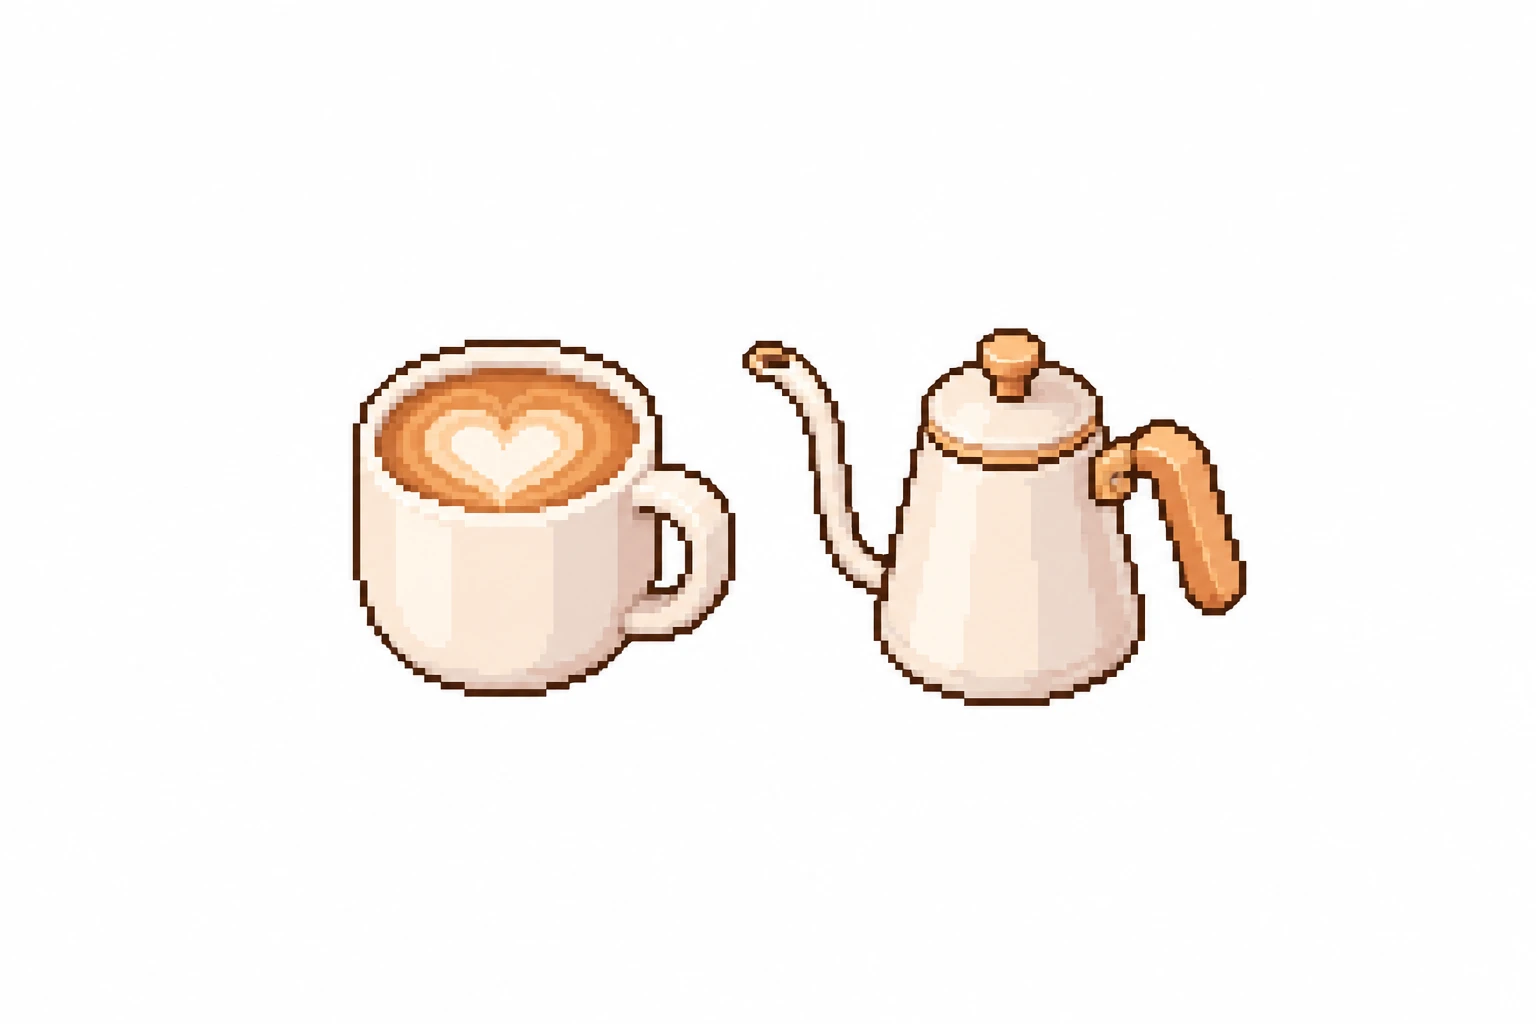
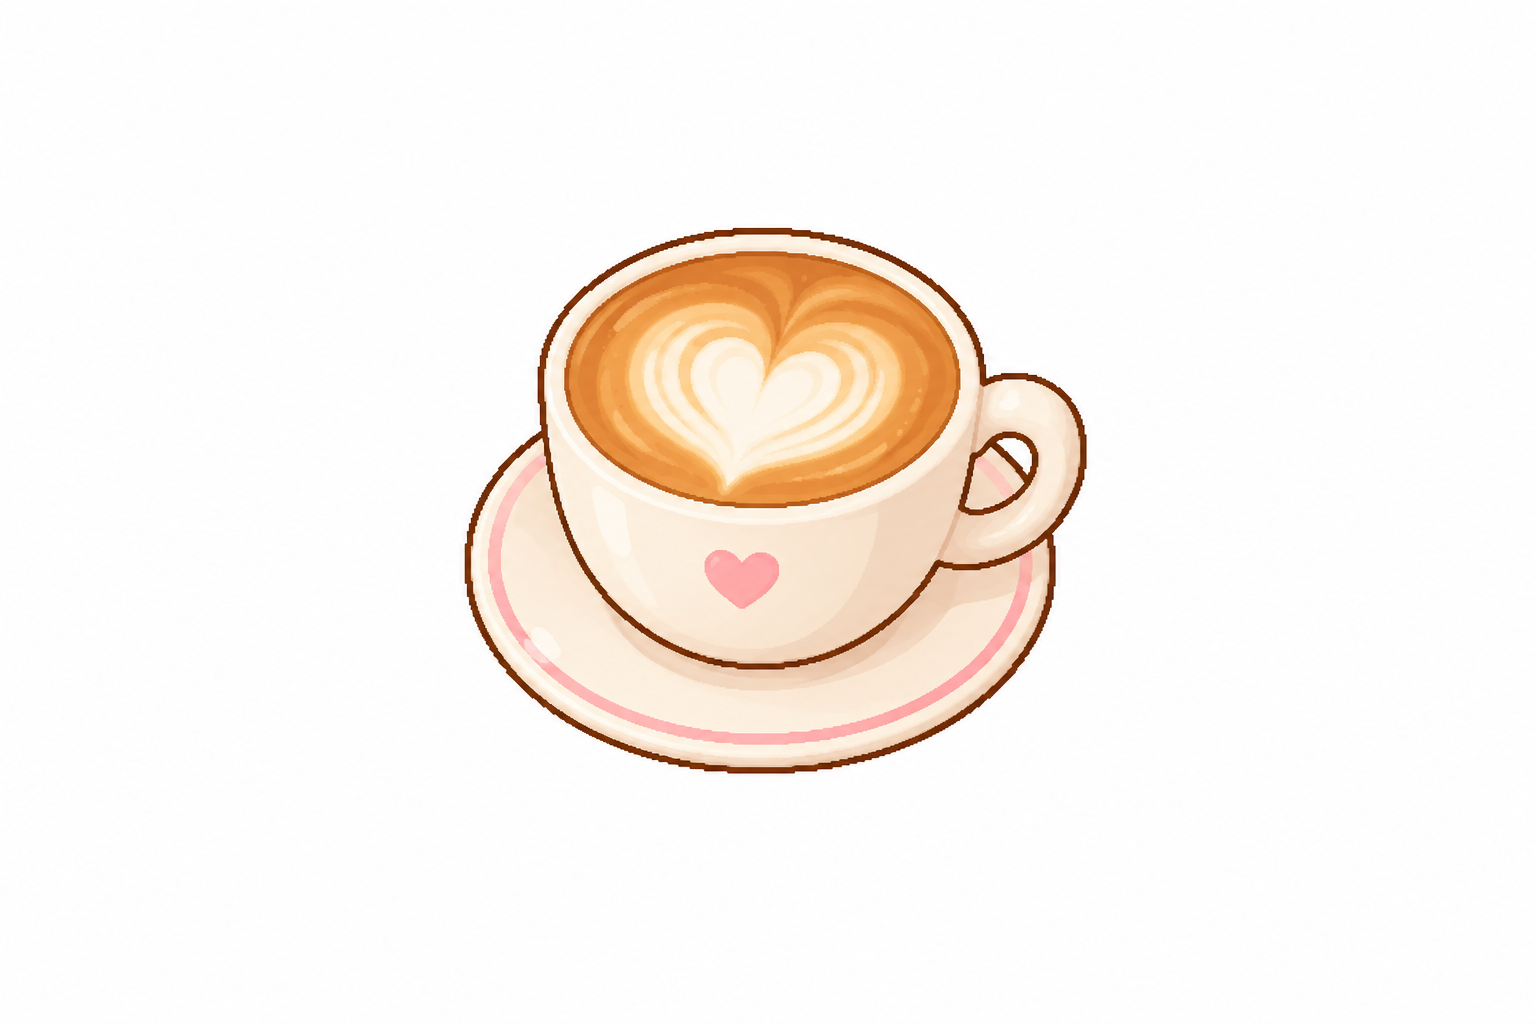
Room items: latte cup by the notebook, camera on the shelf's long side
The latte is redrawn as just a cup and sits right of the notebook at a real
size; it gets its own spot, so it can show together with the cupcake. The
note from visitors moves to the desk's front right so it never covers the
latte. The camera is redrawn on its own and sits on the corner shelf's long
side, swapping places with the family photo frame. The old latte-and-pot art
is kept as coffee_pot.png.

Claude-Session: https://claude.ai/code/session_01MT4YkmG2KGTMjF5XqnwBbs

Changed region(s): [[0.2188, 0.2188, 0.8125, 0.7812]]

diff --git a/public/joys-config.js b/public/joys-config.js
@@ -7,7 +7,7 @@ export const IMPRINT_DAYS = 10;
 // z：疊的順序（小的先畫，被後面的蓋住）
 export const IMPRINTS = {
   cat: { name: '小貓抱枕', where: '床上', x: 520, y: 520, w: 130, h: 81, z: 2 },
-  coffee: { name: '拿鐵和咖啡壺', where: '書桌上', x: 705, y: 330, w: 70, h: 30, z: 1 },
+  coffee: { name: '拿鐵', where: '書桌上，筆記本旁邊', x: 868, y: 360, w: 40, h: 35, z: 1 },
   meal: { name: '小矮桌和碗筷', where: '電視前的地毯上', x: 975, y: 705, w: 170, h: 121, r: .07, z: 3 },
   hearts: { name: '愛心氣球', where: '禮物旁邊', x: 280, y: 650, w: 115, h: 189, z: 3 },
   gift: { name: '禮物盒', where: '書櫃旁邊', x: 245, y: 705, w: 105, h: 141, r: .04, z: 4 },
@@ -18,7 +18,8 @@ export const IMPRINTS = {
   sneaker: { name: '地球儀', where: '書櫃上', x: 212, y: 396, w: 62, h: 86, z: 1 },
   cake: { name: '杯子蛋糕', where: '書桌上', x: 705, y: 334, w: 58, h: 58, z: 1 },
   call: { name: '復古電話', where: '電視櫃上', x: 1212, y: 556, w: 64, h: 51, z: 1 },
-  home: { name: '全家福相框', where: '牆角的層架上', x: 842, y: 180, w: 56, h: 55, z: 1 },
+  camera: { name: '拍立得相機', where: '牆角的層架上', x: 845, y: 182, w: 52, h: 52, z: 1 },
+  home: { name: '全家福相框', where: '牆角的層架上', x: 715, y: 165, w: 56, h: 55, z: 1 },
   plant: { name: '小多肉盆栽', where: '窗台上', x: 470, y: 398, w: 64, h: 49, z: 1 },
   sparkle: { name: '星光串燈', where: '窗簾桿上', x: 470, y: 312, w: 300, h: 178, z: 2 },
   sunset: { name: '風景明信片', where: '窗戶旁的牆上', x: 700, y: 270, w: 96, h: 79, z: 1 },
@@ -30,14 +31,14 @@ export const IMPRINTS = {
 // 擺放位置（多選一，使用者定案）：同一個位置一次只放一件；換上新的，原本那件自動收起來，隨時可以換回來
 // 每個圖示都要有位置（還沒有家具圖的也先排好）；SLOTS 是位置的名稱
 export const SLOTS = {
-  'desk-left': '書桌左邊', 'shelf-left': '角落層架左邊', 'shelf-right': '角落層架右邊',
+  'desk-left': '書桌左邊', 'desk-mid': '筆記本旁邊', 'shelf-left': '角落層架左邊', 'shelf-right': '角落層架右邊',
   sill: '窗台', rod: '窗簾桿', 'window-wall': '窗戶旁的牆', 'bookcase-right': '書櫃頂', 'bookcase-left': '書櫃頂',
   bedhead: '床頭', bed: '床上', 'bookcase-floor': '書櫃旁的地板', bedside: '床邊的地板', 'bear-right': '小熊旁邊',
   rug: '地毯中間', 'rug-front': '地毯旁邊', 'front-floor': '房間前面的地板', 'tv-cubby': '電視櫃最左格', 'tv-top': '電視櫃上',
   'door-floor': '門邊的地板', 'door-front': '門前', 'door-hook': '門上的掛鉤', 'wall-right': '右邊的牆上',
 };
 const SLOT_OF = {
-  coffee: 'desk-left', cake: 'desk-left', call: 'tv-top', camera: 'shelf-left', home: 'shelf-right',
+  coffee: 'desk-mid', cake: 'desk-left', call: 'tv-top', camera: 'shelf-right', home: 'shelf-left',
   plant: 'sill', sparkle: 'rod', sunset: 'window-wall', sneaker: 'bookcase-right', paw: 'bookcase-left',
   moon: 'bedhead', cat: 'bed', game: 'bed', gift: 'bookcase-floor', workout: 'bookcase-floor', bear: 'bedside', book: 'bear-right',
   meal: 'rug', cook: 'rug', hearts: 'rug-front', icecream: 'front-floor', music: 'tv-cubby', sun: 'tv-top', movie: 'tv-top', sing: 'tv-top',

diff --git a/public/room.js b/public/room.js
@@ -588,7 +588,8 @@ export class Room {
     this.box.dataset.notes = String(n || 0);
     if (!n) return;
     // 平貼在桌面上：兩個邊照地板的方向（u 沿右牆、v 沿左牆）
-    const c = [858, 372], du = [EU[0] * .036, EU[1] * .036], dv = [EV[0] * .036, EV[1] * .036];
+    // 書桌右前方的空位：筆記本旁邊放了拿鐵，紙條不疊在上面
+    const c = [852, 398], du = [EU[0] * .036, EU[1] * .036], dv = [EV[0] * .036, EV[1] * .036];
     const pt = (a, b) => `${c[0] + a * du[0] + b * dv[0]},${c[1] + a * du[1] + b * dv[1]}`;
     const g = el('g', { class: fresh ? 'fresh' : '' }, this.noteG);
     if (n > 1) el('polygon', { points: [pt(-.8, -1.2), pt(1.2, -1.2), pt(1.2, .8), pt(-.8, .8)].join(' '), fill: '#f6e3c9', stroke: '#8a5a44', 'stroke-width': 3 }, g);

diff --git a/public/sw.js b/public/sw.js
@@ -1,5 +1,5 @@
 // 版本號：主.次.修（見 CLAUDE.md「版本號」）。改了任何檔案就把最後一位 +1，舊快取才會被清掉
-const VERSION = '0.0.96';
+const VERSION = '0.0.97';
 const CACHE = `lifelog-${VERSION}`;
 const ASSETS = [
   './',
@@ -63,6 +63,7 @@ const ASSETS = [
   './room/imprints/sneaker.webp',
   './room/imprints/cake.webp',
   './room/imprints/call.webp',
+  './room/imprints/camera.webp',
   './room/imprints/home.webp',
   './room/imprints/plant.webp',
   './room/imprints/sparkle.webp',

diff --git a/art/tools/imprint_items.py b/art/tools/imprint_items.py
@@ -19,9 +19,9 @@ SRC = ROOT / 'art/source/furniture'
 OUT = ROOT / 'public/room/imprints'
 LINE = (62, 23, 11)  # 房間外框的顏色
 # key: 在房間裡的寬度（房間座標）
-WIDTH = {'cat': 130, 'coffee': 70, 'meal': 170, 'gift': 105, 'bear': 95, 'hearts': 85,
+WIDTH = {'cat': 130, 'coffee': 40, 'meal': 170, 'gift': 105, 'bear': 95, 'hearts': 85,
          'paw': 120, 'moon': 44, 'star': 200, 'sneaker': 62,
-         'cake': 58, 'call': 64, 'home': 56, 'plant': 64, 'sparkle': 300, 'sunset': 96,
+         'cake': 58, 'call': 64, 'camera': 52, 'home': 56, 'plant': 64, 'sparkle': 300, 'sunset': 96,
          'game': 110, 'workout': 100, 'book': 118}
 # 掛在牆上的要照牆的斜度斜過去：每往右 1px 往下幾 px（GPT 畫的是正面，右牆約往下 0.49，原圖的線已經斜 0.19）
 # 負的是往右上升：左牆、窗簾桿（約 -0.49）

diff --git a/CLAUDE.md b/CLAUDE.md
@@ -78,7 +78,7 @@
 | 點人物 | 跳一下、說句話（換裝從「我」的個人卡進去） |
 | 檯燈、床、時鐘、窗戶 | 小互動：開關燈、睡覺、報時、天氣 |
 | 門 `door` | 串門子：去連結的人的小窩（只有一位就直接去，多位先問去誰家；沒連結的人時小人說先去邀請） |
-| 書桌上的紙條 `note` | 有人留紙條時才出現（`Room.showNote`），點了打開紙條匣 |
+| 書桌上的紙條 `note` | 有人留紙條時才出現（`Room.showNote`，書桌右前方，不蓋到拿鐵），點了打開紙條匣 |
 
 ### 像素房間
 
@@ -162,8 +162,8 @@
   - 資料 `state.imprints`：`{id:key, key, joyId, at, shown, updatedAt}`；同步用 `mergeImprints`：日期留最早、`shown` 照最新。
   - 設定 `public/joys-config.js` 的 `IMPRINTS`：每件家具在房間的位置（底部中間 x,y）、大小、疊放順序 z、放在地板上的擋路半徑 r；改數字不用動程式。
   - 圖：`python3 art/tools/imprint_items.py` 把 `art/source/furniture/<key>.png`（GPT 白底單張）去背、縮到房間大小、外框重畫成房間的粗細顏色 → `public/room/imprints/<key>.webp`；新增要加進 `WIDTH`、`IMPRINTS`、`sw.js`。
-  - **多選一的擺放位置**（使用者定案，取代原本的「新家具直接疊上去」）：`joys-config.js` 的 `SLOT_OF` 把 32 個圖示分到 22 個位置（`SLOTS` 是位置名稱），同一個位置一次只放一件。拿到新家具時位置已經有東西，視窗問「換上（原本的收起來）／先收著」；收藏冊的按鈕是「放到房間／換上／收起來」。`shownImprints` 和伺服器 `sharedView` 都是新放的在前，`onePerSlot` 每個位置只留第一件（兩台手機各放一件時，留最後放的）。多選一的位置：書桌左邊 coffee／cake、床上 cat／game、書櫃旁地板 gift／workout、地毯中間 meal／cook、電視櫃上（電視右邊）sun／movie／sing／call、門邊地板 umbrella／shop／clean、門上掛鉤 bath／bike。
-  - 擺放規劃（使用者定案）：拖鞋 hearts 在地毯左前方外緣、book 一疊書在小熊右邊、icecream 懶骨頭在左前方地板、bike 是掛在門上的安全帽；完整的 22 個位置見 `SLOT_OF`，還沒有圖的家具座標等圖做好再量。目前有圖的：cat 小貓抱枕、coffee 拿鐵、meal 小矮桌（電視前地毯上）、gift 禮物、bear 熊熊、hearts 愛心氣球、paw 貓狗玩偶（書櫃頂，地球儀旁邊）、moon 月亮小夜燈（床頭）、star 星星吊飾（右牆，`SHEAR` 照牆的斜度斜過去）、sneaker 地球儀（出外旅行，書櫃頂）、cake 杯子蛋糕（書桌左邊）、call 復古電話（電視櫃上、電視右邊；使用者從書桌改過來）、home 全家福相框（角落層架右）、plant 小多肉（窗台）、sparkle 星光串燈（窗簾桿，`SHEAR` -0.49：負的是往右上升，左牆和窗簾桿都是）、sunset 風景明信片（窗戶旁的牆，`SHEAR` -0.49）、game 掌上遊戲機（床上）、workout 瑜珈墊（書櫃旁，比熊熊高）、book 一疊書（小熊旁，和熊熊差不多高）；**大小以熊熊為現實比例參考**（使用者定案）。camera 拍立得要重畫（只畫相機），舊的立照片版本使用者覺得怪，先拿掉；其他的拿到會顯示「家具製作中」。舊模型圖改名成 `camera_tripod.png`（三腳架相機）、`cloud_beanbag.png`（雲朵懶骨頭），備用。**hearts 要換成「兩雙並排的室內拖鞋」**（使用者定案，放地毯左前方外緣，像脫了鞋要坐在地毯上吃飯；位置等圖做好再量），等 GPT 圖放進 `art/source/furniture/hearts.png` 再換；key 照舊用 hearts。`art/source/furniture/shoes.png`（球鞋＋踏墊）先留著備用。
+  - **多選一的擺放位置**（使用者定案，取代原本的「新家具直接疊上去」）：`joys-config.js` 的 `SLOT_OF` 把 32 個圖示分到 22 個位置（`SLOTS` 是位置名稱），同一個位置一次只放一件。拿到新家具時位置已經有東西，視窗問「換上（原本的收起來）／先收著」；收藏冊的按鈕是「放到房間／換上／收起來」。`shownImprints` 和伺服器 `sharedView` 都是新放的在前，`onePerSlot` 每個位置只留第一件（兩台手機各放一件時，留最後放的）。多選一的位置：床上 cat／game、書櫃旁地板 gift／workout、地毯中間 meal／cook、電視櫃上（電視右邊）sun／movie／sing／call、門邊地板 umbrella／shop／clean、門上掛鉤 bath／bike。
+  - 擺放規劃（使用者定案）：拖鞋 hearts 在地毯左前方外緣、book 一疊書在小熊右邊、icecream 懶骨頭在左前方地板、bike 是掛在門上的安全帽；完整的 22 個位置見 `SLOT_OF`，還沒有圖的家具座標等圖做好再量。目前有圖的：cat 小貓抱枕、meal 小矮桌（電視前地毯上）、gift 禮物、bear 熊熊、hearts 愛心氣球、paw 貓狗玩偶（書櫃頂，地球儀旁邊）、moon 月亮小夜燈（床頭）、star 星星吊飾（右牆，`SHEAR` 照牆的斜度斜過去）、sneaker 地球儀（出外旅行，書櫃頂）、coffee 拿鐵（只有杯子，筆記本右側；舊的拿鐵＋咖啡壺留在 `coffee_pot.png`）、cake 杯子蛋糕（書桌左邊，和拿鐵可以同時出現）、camera 拍立得（角落層架長邊，只有相機）、call 復古電話（電視櫃上、電視右邊；使用者從書桌改過來）、home 全家福相框（角落層架短邊）、plant 小多肉（窗台）、sparkle 星光串燈（窗簾桿，`SHEAR` -0.49：負的是往右上升，左牆和窗簾桿都是）、sunset 風景明信片（窗戶旁的牆，`SHEAR` -0.49）、game 掌上遊戲機（床上）、workout 瑜珈墊（書櫃旁，比熊熊高）、book 一疊書（小熊旁，和熊熊差不多高）；**大小以熊熊為現實比例參考**（使用者定案）。其他的拿到會顯示「家具製作中」。舊模型圖改名成 `camera_tripod.png`（三腳架相機）、`cloud_beanbag.png`（雲朵懶骨頭），備用。**hearts 要換成「兩雙並排的室內拖鞋」**（使用者定案，放地毯左前方外緣，像脫了鞋要坐在地毯上吃飯；位置等圖做好再量），等 GPT 圖放進 `art/source/furniture/hearts.png` 再換；key 照舊用 hearts。`art/source/furniture/shoes.png`（球鞋＋踏墊）先留著備用。
   - 收藏冊在「累積幸福 → 全部」最下面，32 格（`JOY_ICONS` 全部）。
 - **使用者在小幸福選單（artifact）選了 32 個**：原本 24 個，加上 game 玩了喜歡的遊戲、cook 自己做了一頓飯、shop 買到喜歡的東西、workout 去運動了、movie 看了好看的電影、clean 把房間整理乾淨、call 和好久不見的人聊天、sing 大聲唱了歌。這 8 個已加進 `JOY_ICONS`（emoji）和 `ASK`，但**還沒有像素圖示**：不在 `JOY_PIX`，所以不能選來當小幸福或紙條貼圖（`PICKABLE_ICONS`），收藏冊顯示「即將推出」；圖做好放進 `public/joys/`、加進 `JOY_PIX` 和 `sw.js`，再加進 `SUGGESTIONS`。原本只有圖示的 6 個補了名稱，加進建議：被抱抱了 bear、照顧了植物 plant、完成了一件事 sparkle、雨天也很好 umbrella、吃到冰淇淋 icecream、騎車出去晃晃 bike。
 - 之後：Phase 2 幸福星罐、Phase 4 年度回顧卡、日記時間軸上的小印章；新房間草稿在 `art/source/room2/room_*.webp`（之後做換房間時用）。
